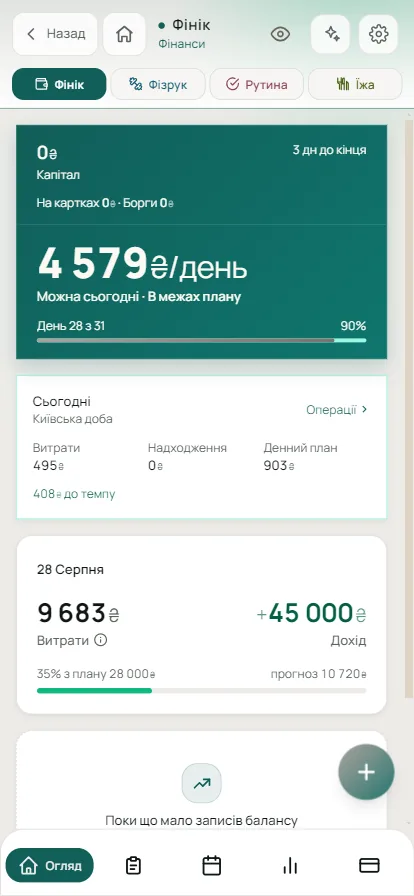
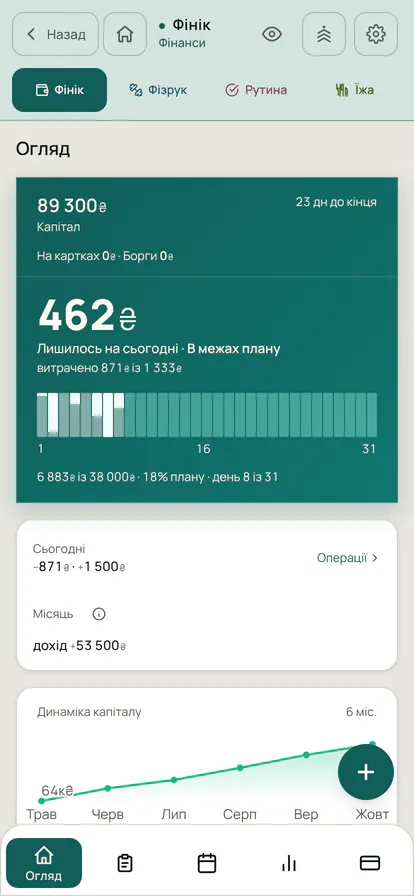
fix(web): нові скріни Фініка, Харчування і Рутини; /yizha без «кільця»
Скріни перезнято з поточного застосунку на демо-даних (рішення власника
за аудитом сайту 2026-10-08, V6): без іскри, тосту «продовжуй!» і
скролбара. Кільця калорій у Харчуванні більше немає, тож alt і текст
/yizha описують підсумок дня і знак ≈ над смугою дня.

Claude-Session: https://claude.ai/code/session_012tyAch1jT1iD5hJyUCUV3N

diff --git a/apps/landing/src/pages/YizhaPage.tsx b/apps/landing/src/pages/YizhaPage.tsx
@@ -163,13 +163,13 @@ export default function YizhaPage() {
         <h2 className={h2}>Знак ≈ там, де більшість калорій дня з фото</h2>
         <p className={body}>
           Кожна цифра КБЖВ у журналі несе походження: база, етикетка, ручний
-          ввід або фото. Денне кільце рахує частку калорій дня, що прийшла з
+          ввід або фото. Застосунок рахує частку калорій дня, що прийшла з
           фото-оцінки, і рахує саме за калоріями: три ручні прийоми по 100 ккал
           плюс одна фотка на 900 ккал дають 75% вгаданого дня.
         </p>
         <p className={body}>
-          Коли більшість калорій дня прийшла з фото, кільце показує ≈ перед
-          сумою і підпис про це. Смуга дня рахує ту саму частку.
+          Коли більшість калорій дня прийшла з фото, над смугою дня зʼявляється
+          знак ≈ і підпис, що сьогоднішні калорії здебільшого оцінені з фото.
         </p>
       </section>
 
@@ -235,7 +235,7 @@ export default function YizhaPage() {
         <figure className="mt-6 max-w-[320px]">
           <img
             src="/screens/nutrition.webp"
-            alt="Екран Харчування: кільце 1 250 із 2 200 ккал, білки, жири й вуглеводи, тижневий графік і вода за день"
+            alt="Екран Харчування: 950 ккал лишилось на вечерю, білки, жири й вуглеводи, калорії за тиждень і вода за день"
             width={414}
             height={896}
             loading="lazy"

diff --git a/apps/landing/src/pages/ZvychkyPage.tsx b/apps/landing/src/pages/ZvychkyPage.tsx
@@ -212,7 +212,7 @@ export default function ZvychkyPage() {
         <figure className="mt-6 max-w-[320px]">
           <img
             src="/screens/routine.webp"
-            alt="Екран Рутини: звички за сьогодні, тижнева стрічка днів і лічильник серії"
+            alt="Денний звіт Рутини: пʼять виконаних звичок і пропуск «10 000 кроків» із причиною «У дорозі», який не ламає серію"
             width={414}
             height={896}
             loading="lazy"

diff --git a/apps/landing/src/pages/HroshiPage.tsx b/apps/landing/src/pages/HroshiPage.tsx
@@ -304,7 +304,7 @@ export default function HroshiPage() {
         <figure className="mt-6 max-w-[320px]">
           <img
             src="/screens/finyk.webp"
-            alt="Екран Фініка: бюджет дня, витрати і надходження за сьогодні"
+            alt="Огляд Фініка: на сьогодні лишилось 462 ₴ у межах плану, витрати й надходження за день і графік капіталу"
             width={414}
             height={896}
             loading="lazy"
